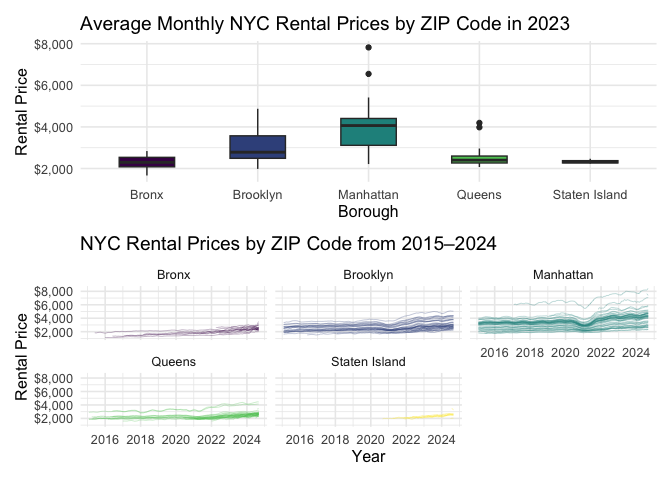
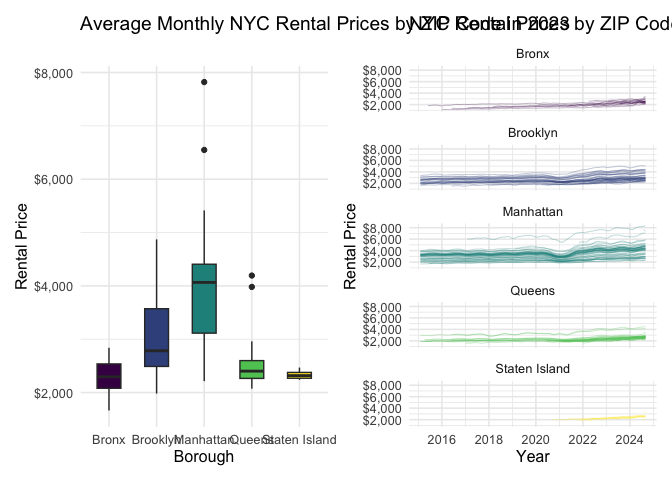
editing patchwork graphic dimensions

diff --git a/p8105_hw3_vp2587.md b/p8105_hw3_vp2587.md
@@ -286,7 +286,7 @@ rent_p =
   viridis::scale_color_viridis(discrete = TRUE) +
   theme_minimal(base_size = 12) +
   theme(legend.position = "none") +
-  facet_wrap(. ~ borough, ncol = 3)
+  facet_wrap(. ~ borough, ncol = 1)
 rent_p
 ```
 
@@ -345,13 +345,11 @@ submarkets.
     this to a results folder in your repository.
 
 ``` r
-monthly_avg_2023_p / rent_p
+monthly_avg_2023_p + rent_p
 ```
 
 ![](p8105_hw3_vp2587_files/figure-gfm/combined-1.png)<!-- -->
 
 ``` r
-ggsave("combined.pdf")           
+ggsave("combined.pdf", height = 8, width = 12)           
 ```
-
-    ## Saving 7 x 5 in image
